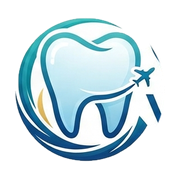
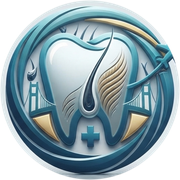
Swap in the new badge, which covers hair as well as teeth
The mark this replaces said dental and only dental, on a site where nine of
the twenty-one treatments are hair — Sapphire FUE, DHI, manual FUE, women's
hair, beard and eyebrow work. The new badge carries a follicle and strands
inside the tooth, so the logo stops contradicting half the catalogue.

It cuts better, too. The previous artwork used white as a real colour, so
lifting it off its background left opaque white inside the badge and it needed
a white disc to sit on a dark ground. This one is a filled disc with a dark
rim: one file works on both grounds, and the white-disc variant is gone.

Cut the same way — a flood fill from the borders for a crisp edge, a
sealed-and-filled silhouette so the pale inside of the tooth is not mistaken
for background, then a circular mask at the centre and radius Hough found
(700,374 r237, taken out to 252 for the rim). The mask is what removes the
studio floor, the reflection under the badge and a stray sparkle in the
corner of the render.

Served as WebP rather than PNG: 18KB at 256px against 115KB, on an image that
loads in the header of every page in four languages. The PNG master stays as
mark-full.png for print and social, where transparency in a format everything
opens matters more than bytes. The favicons stay PNG because browser support
for WebP icons is not worth the 60KB.

Verified on the running site: the mark loads at 38px in all four languages and
on treatment and journal pages, the favicon links are emitted, nothing 404s,
[…]

diff --git a/veahealth-wordpress-theme/inc/template-tags.php b/veahealth-wordpress-theme/inc/template-tags.php
@@ -60,8 +60,11 @@ function veahealth_brand( $class = 'brand' ) {
 		 * own space instead of shifting the navigation when it arrives.
 		 */
 		$out .= sprintf(
-			'<img class="brand-mark" src="%s" alt="" width="40" height="38" decoding="async" fetchpriority="high">',
-			esc_url( VEAHEALTH_URI . '/assets/img/brand/mark.png' )
+			'<img class="brand-mark" src="%s" srcset="%s 256w, %s 512w" sizes="38px"'
+				. ' alt="" width="38" height="38" decoding="async" fetchpriority="high">',
+			esc_url( VEAHEALTH_URI . '/assets/img/brand/mark-256.webp' ),
+			esc_url( VEAHEALTH_URI . '/assets/img/brand/mark-256.webp' ),
+			esc_url( VEAHEALTH_URI . '/assets/img/brand/mark-512.webp' )
 		);
 		$out .= '<span><span class="brand-name">Vea<span>Health</span></span>'
 			. '<span class="brand-sub">' . esc_html( veahealth_option( 'city' ) ) . ' · ' . esc_html__( 'Türkiye', 'veahealth' ) . '</span></span>';
